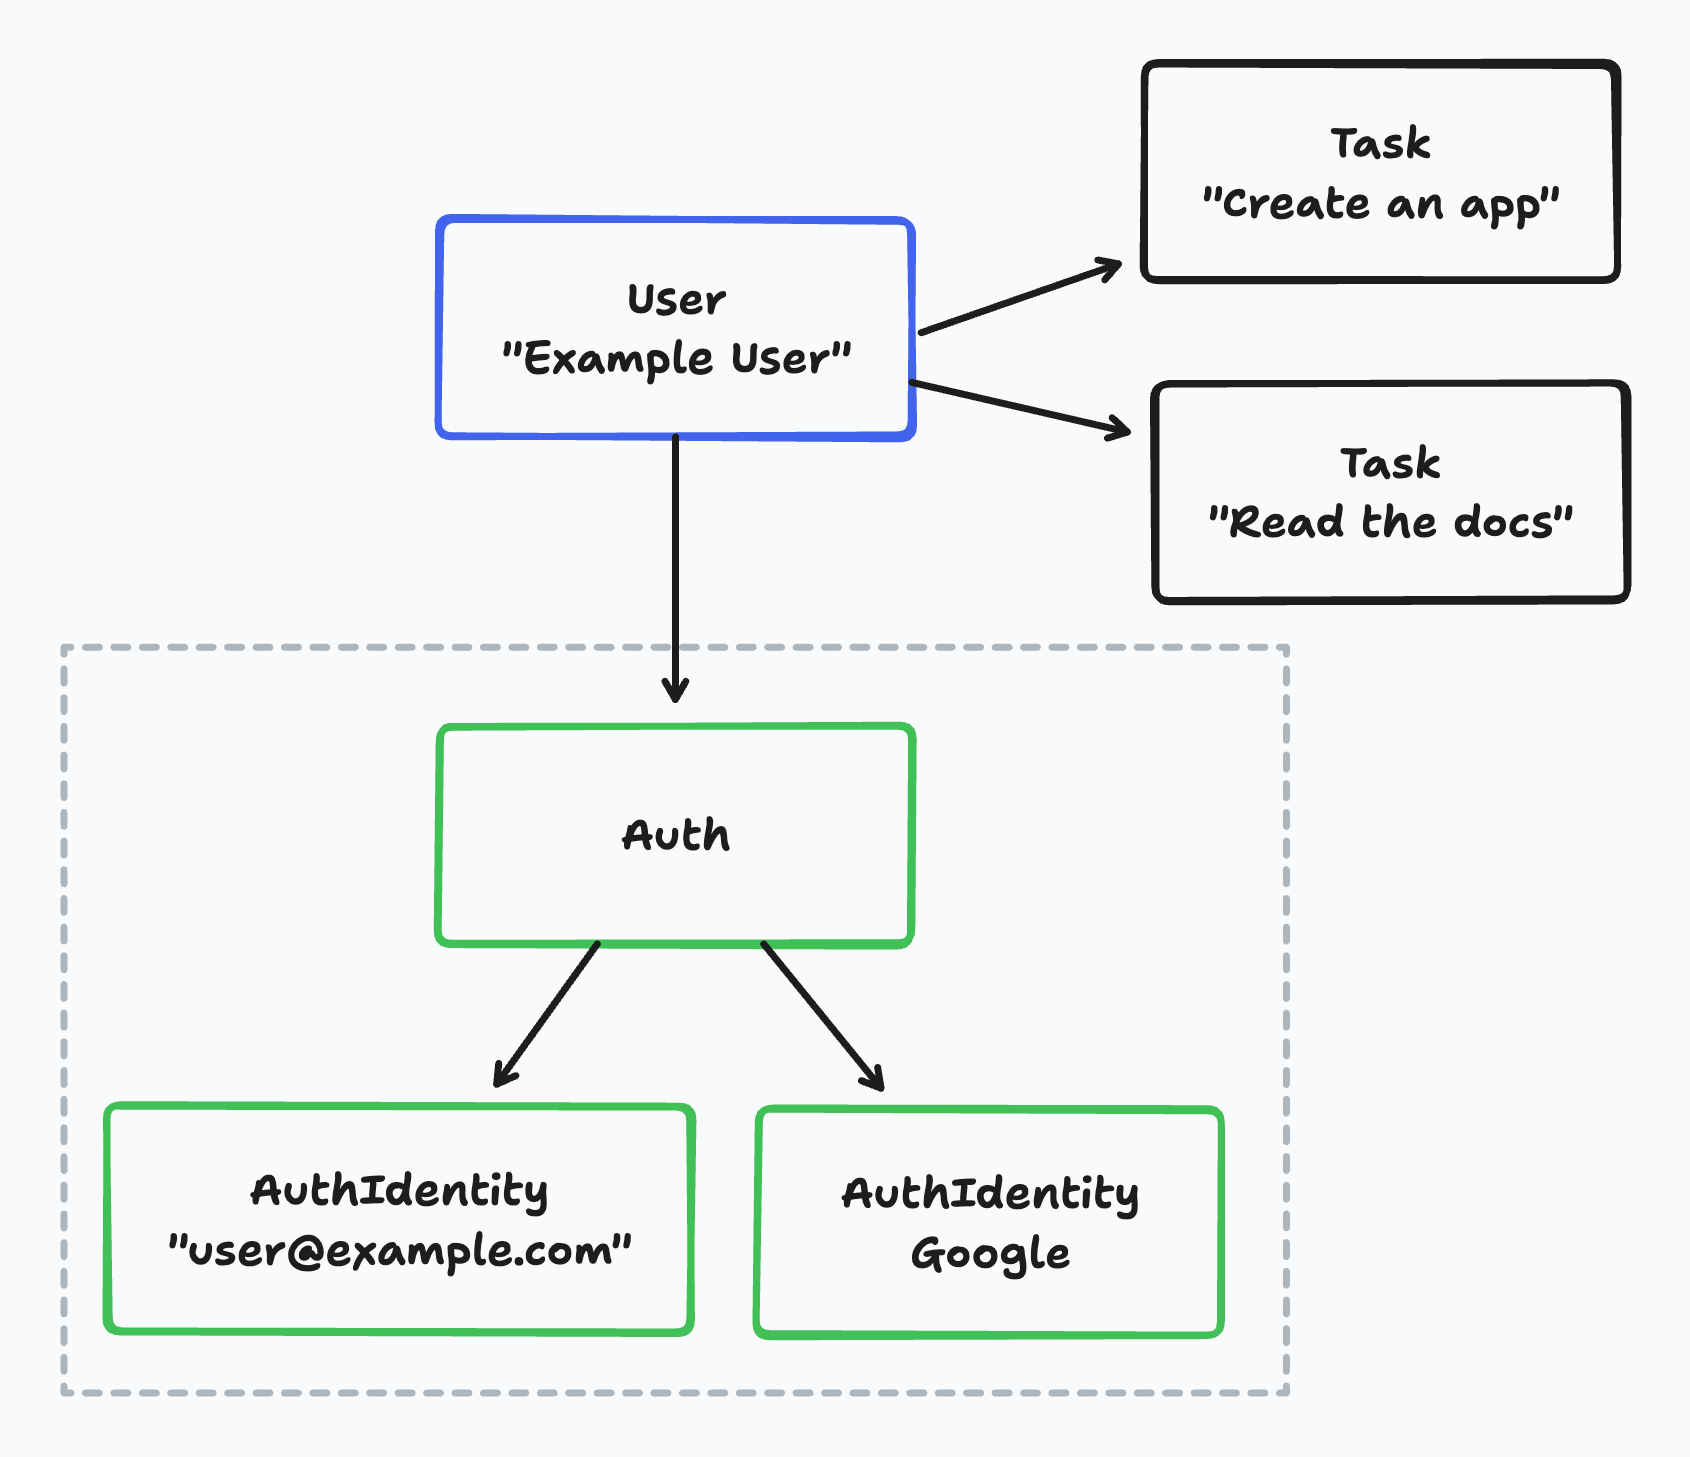
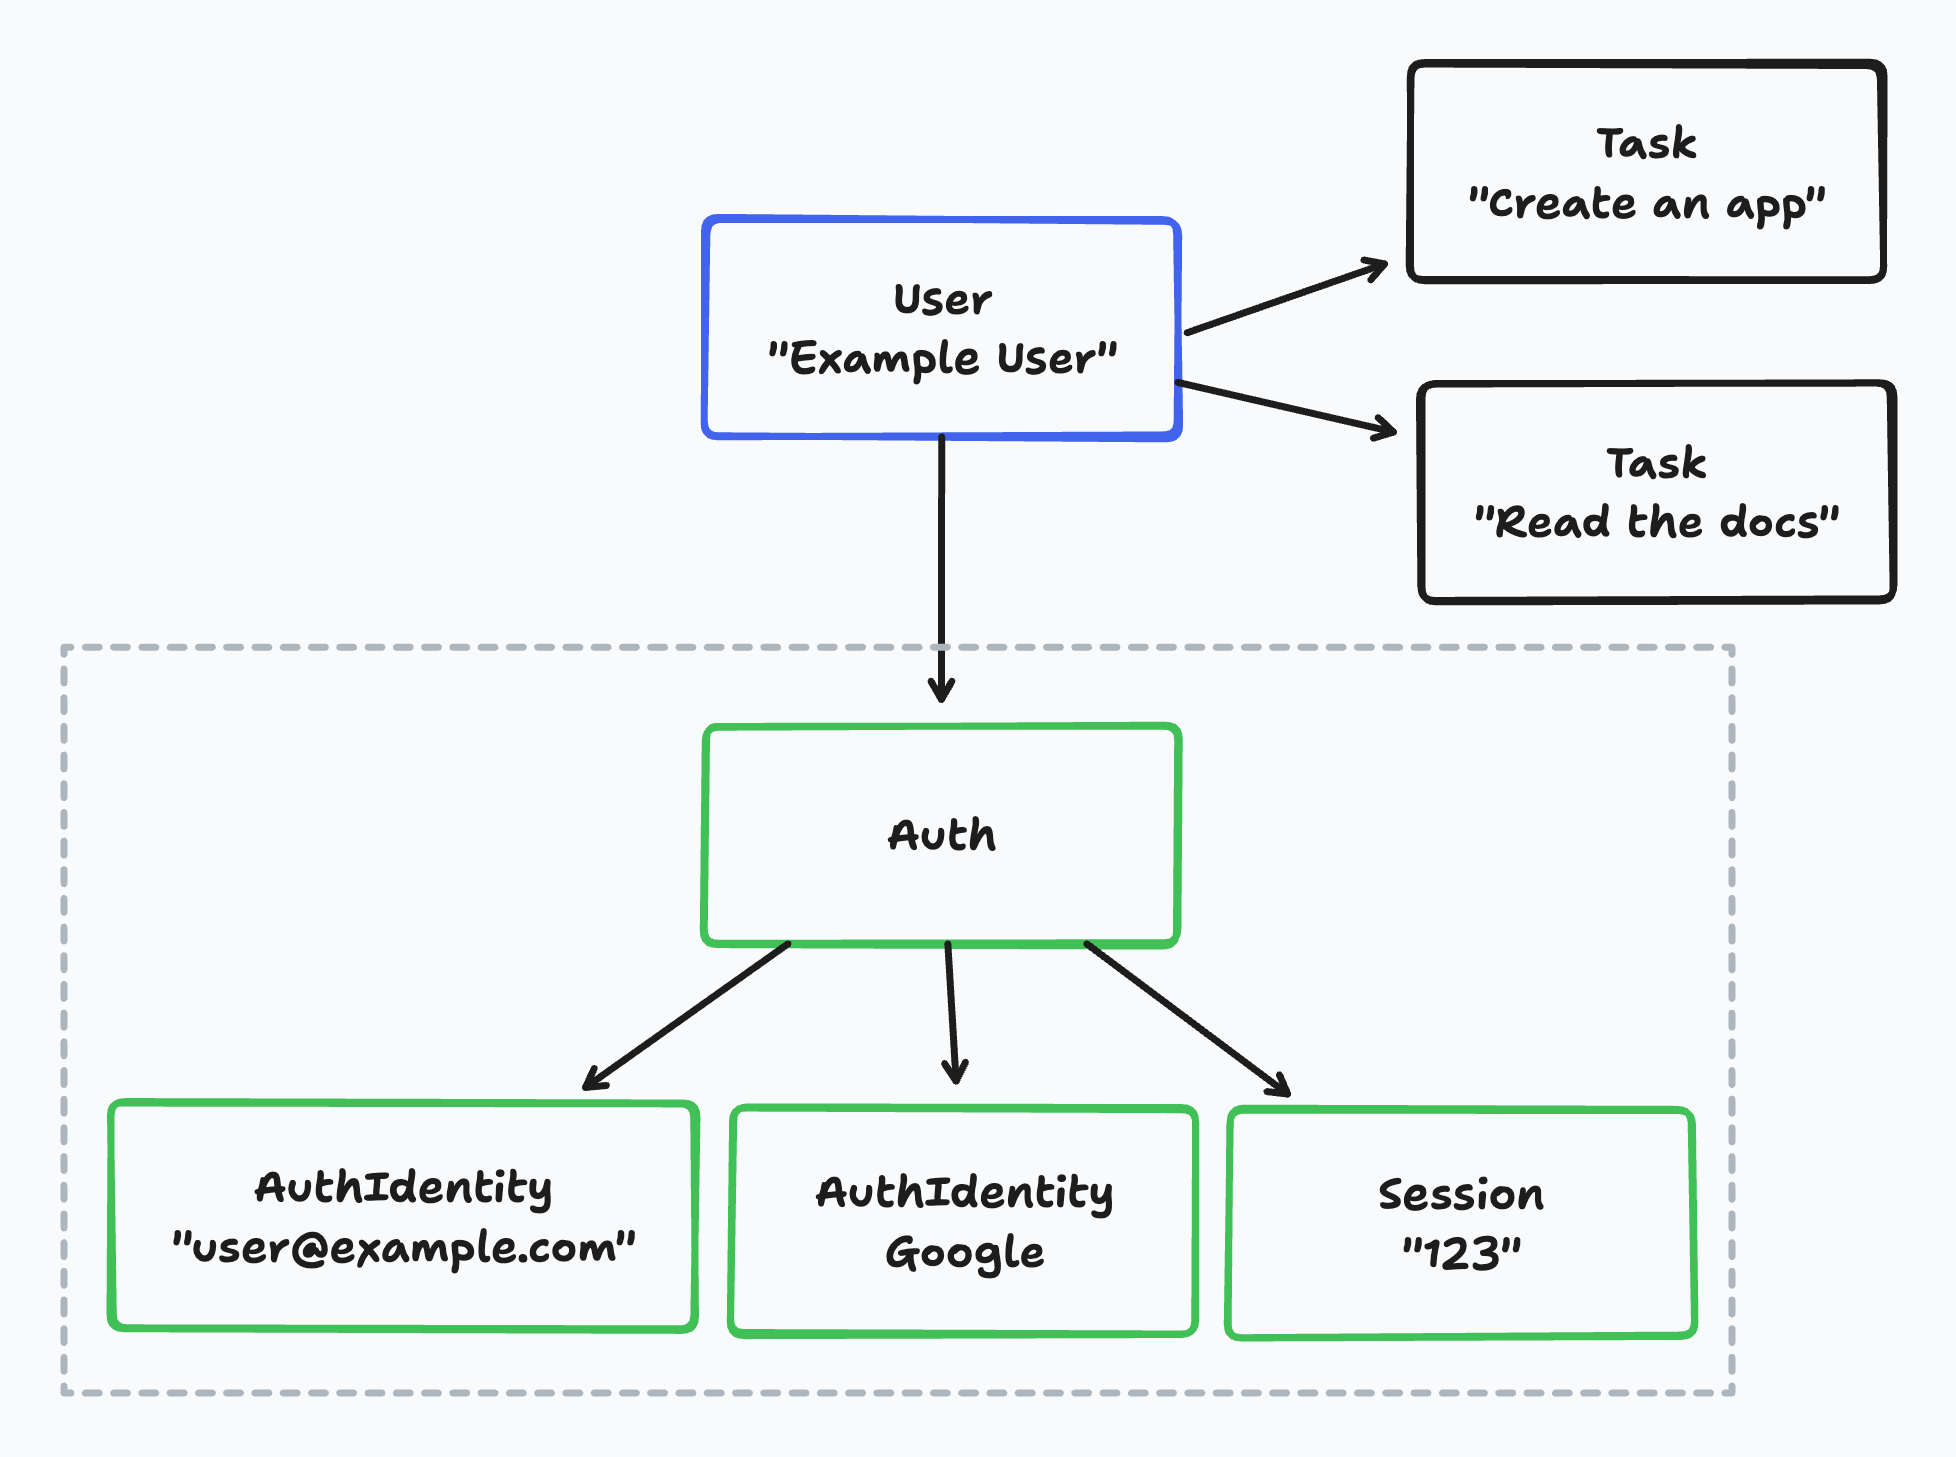
Adds Session related docs

diff --git a/web/src/css/custom.css b/web/src/css/custom.css
@@ -137,7 +137,7 @@
 
 /* This hides Docs version dropdown when not on docs (i.e. when we are on blog). */
 .navbar__item:has(.navbar-item-docs-version-dropdown:not(.active)) {
-  display: none
+  display: none;
 }
 
 /******************************/
@@ -148,6 +148,7 @@
   position: relative;
   width: 100%;
   padding-bottom: 56.25%;
+  margin-bottom: 1.5rem;
 }
 
 .video-container iframe {

diff --git a/web/docs/auth/entities/entities.md b/web/docs/auth/entities/entities.md
@@ -31,7 +31,7 @@ You **own** the user entity and you can modify it as you wish. You can add new f
 
 <ImgWithCaption alt="Auth Entities in a Wasp App" source="img/auth-entities/model.png" caption="Auth Entities in a Wasp App"/>
 
-On the other hand, the `Auth` and `AuthIdentity` entities are created behind the scenes and are used to store the user's login credentials. You as the developer don't need to care about this entity most of the time. Wasp **owns** these entities.
+On the other hand, the `Auth`, `AuthIdentity` and `Session` entities are created behind the scenes and are used to store the user's login credentials. You as the developer don't need to care about this entity most of the time. Wasp **owns** these entities.
 
 In the case you want to create a custom signup action, you will need to use the `Auth` and `AuthIdentity` entities directly.
 
@@ -51,6 +51,8 @@ If we take a look at an example user in the database, we can see:
 - The `User` is connected to exactly one `Auth` entity.
 - Each `Auth` entity can have multiple `AuthIdentity` entities.
   - In this example, the `Auth` entity has two `AuthIdentity` entities: one for the email-based auth and one for the Google-based auth.
+- Each `Auth` entity can have multiple `Session` entities.
+  - In this example, the `Auth` entity has one `Session` entity.
 
 <MultipleIdentitiesWarning />
 
@@ -65,6 +67,7 @@ entity Auth {=psl
   // Wasp injects this relation on the User entity as well
   user       User?          @relation(fields: [userId], references: [id], onDelete: Cascade) 
   identities AuthIdentity[]
+  sessions   Session[]
 psl=}
 ```
 
@@ -76,6 +79,7 @@ The `Auth` fields:
 - `user` is a relation to the `User` entity.
   - This relation is injected on the `User` entity as well.
 - `identities` is a relation to the `AuthIdentity` entity.
+- `sessions` is a relation to the `Session` entity.
 
 ### `AuthIdentity` Entity <Internal />
 
@@ -103,6 +107,28 @@ The `AuthIdentity` fields:
   - This field is a `String` and not a `Json` type because [Prisma doesn't support the `Json` type for SQLite](https://github.com/prisma/prisma/issues/3786).
 - `authId` is a foreign key to the `Auth` entity.
   - It is used to connect the `AuthIdentity` entity with the `Auth` entity.
+- `auth` is a relation to the `Auth` entity.
+
+### `Session` Entity <Internal />
+
+The `Session` entity is used to store the user's session information. It is used to keep the user logged in between page refreshes.
+
+```wasp
+entity Session {=psl
+  id        String   @id @unique
+  expiresAt DateTime
+  userId    String
+  auth      Auth     @relation(references: [id], fields: [userId], onDelete: Cascade)
+
+  @@index([userId])
+psl=}
+```
+
+The `Session` fields:
+- `id` is a unique identifier of the `Session` entity.
+- `expiresAt` is the date when the session expires.
+- `userId` is a foreign key to the `Auth` entity.
+  - It is used to connect the `Session` entity with the `Auth` entity.
 - `auth` is a relation to the `Auth` entity.
 
 ## Accessing the Auth Fields 

diff --git a/web/docs/auth/overview.md b/web/docs/auth/overview.md
@@ -14,7 +14,7 @@ Here's a 1-minute tour of how full-stack auth works in Wasp:
     <iframe src="https://www.youtube.com/embed/Qiro77q-ulI?si=y8Rejsbjb1HJC6FA" frameborder="1" allow="accelerometer; autoplay; clipboard-write; encrypted-media; gyroscope; picture-in-picture; web-share" allowfullscreen></iframe>
 </div>
 
-Enabling auth for your app is optional and can be done by configuring the `auth` field of your `app` declaration.
+Enabling auth for your app is optional and can be done by configuring the `auth` field of your `app` declaration:
 
 <Tabs groupId="js-ts">
 <TabItem value="js" label="JavaScript">
@@ -387,6 +387,12 @@ export const createTask: CreateTask<CreateTaskPayload, Task> = async (
 To implement access control in your app, each operation must check `context.user` and decide what to do. For example, if `context.user` is `undefined` inside a private operation, the user's access should be denied.
 
 When using WebSockets, the `user` object is also available on the `socket.data` object. Read more in the [WebSockets section](../advanced/web-sockets#websocketfn-function).
+
+## Sessions
+
+Wasp's auth uses sessions to keep track of the logged-in user. The session is stored in `localStorage` on the client and in the database on the server. Under the hood, Wasp uses the excellent [Lucia Auth v3](https://v3.lucia-auth.com/) library for session management.
+
+When users log in, Wasp creates a session for them and stores it in the database. The session is then sent to the client and stored in `localStorage`. When users log out, Wasp deletes the session from the database and from `localStorage`.
 
 ## User Entity
 

diff --git a/web/docs/tutorial/07-auth.md b/web/docs/tutorial/07-auth.md
@@ -280,7 +280,7 @@ However, you will notice that if you try logging in as different users and creat
 
 <small>
 
-You might notice some extra Prisma models like `Auth` and `AuthIdentity` that Wasp created for us. You don't need to care about these right now, but if you are curious, you can read more about them [here](../auth/entities).
+You might notice some extra Prisma models like `Auth`, `AuthIdentity` and `Session` that Wasp created for us. You don't need to care about these right now, but if you are curious, you can read more about them [here](../auth/entities).
 
 </small>
 
